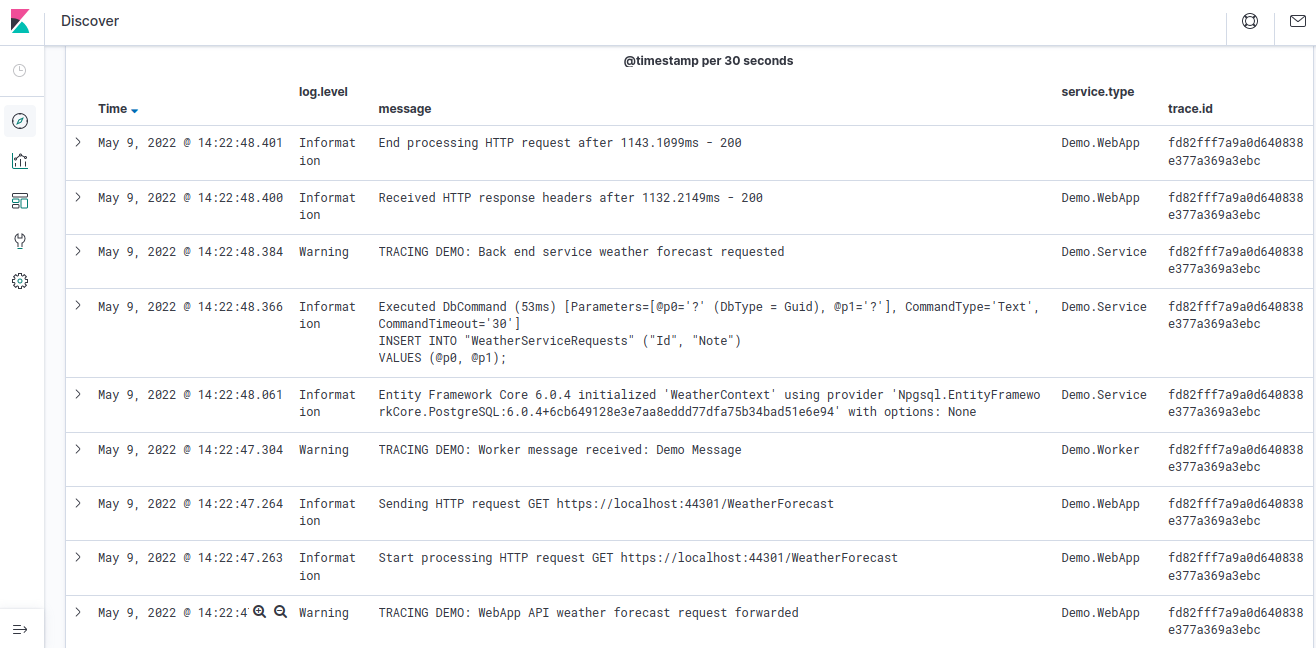
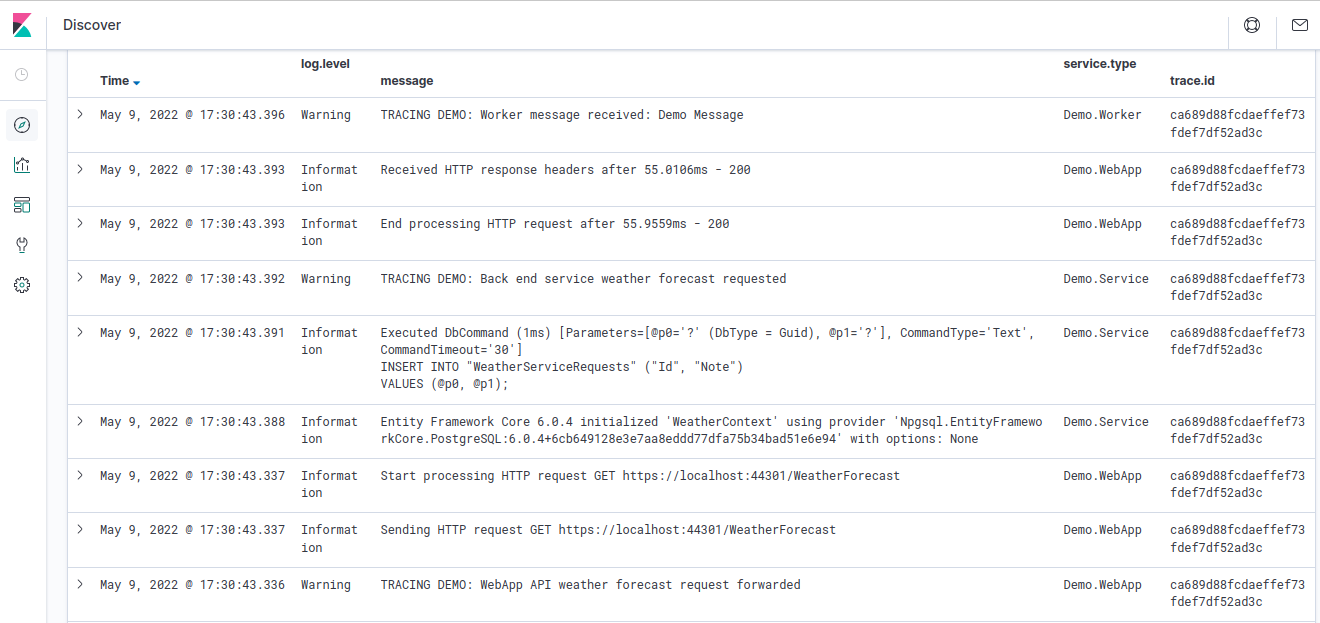
Do the message after the service, to demo async

Changed region(s): [[0.0, 0.0, 1.0, 1.0], [0.0, 0.366, 0.0312, 0.3965]]

diff --git a/src/c-complex/Demo.WebApp/Controllers/WeatherForecastController.cs b/src/c-complex/Demo.WebApp/Controllers/WeatherForecastController.cs
@@ -23,7 +23,8 @@ public class WeatherForecastController : ControllerBase
     public async Task<string> Get(System.Threading.CancellationToken cancellationToken)
     {
         _logger.LogWarning(4001, "TRACING DEMO: WebApp API weather forecast request forwarded");
-        await _publishEndpoint.Publish<Demo.WeatherMessage>(new { Note = "Demo Message" }, cancellationToken);
-        return await _httpClient.GetStringAsync("https://localhost:44301/WeatherForecast", cancellationToken);
+        var result = await _httpClient.GetStringAsync("https://localhost:44301/WeatherForecast", cancellationToken);
+        await _publishEndpoint.Publish<Demo.WeatherMessage>(new { Note = $"Demo Message" }, cancellationToken);
+        return result;
     }
 }

diff --git a/src/c-complex/Demo.Worker/WeatherMessageConsumer.cs b/src/c-complex/Demo.Worker/WeatherMessageConsumer.cs
@@ -11,9 +11,9 @@ public class WeatherMessageConsumer : IConsumer<WeatherMessage>
         _logger = logger;
     }
 
-    public Task Consume(ConsumeContext<WeatherMessage> context)
+    public async Task Consume(ConsumeContext<WeatherMessage> context)
     {
         _logger.LogWarning(4002, "TRACING DEMO: Worker message received: {Note}", context.Message.Note);
-        return Task.CompletedTask;
+        await Task.Delay(TimeSpan.FromMilliseconds(200), context.CancellationToken);
     }
 }

diff --git a/src/c-complex/ReadMe.md b/src/c-complex/ReadMe.md
@@ -154,15 +154,16 @@ In `WeatherForecastController.cs` inject the MassTransit publisher into the cons
   }
 ```
 
-Then change the request handler to async and publish a message with the interface type:
+Then change the request handler to async and publish a message with the interface type before returning the result:
 
 ```csharp
   [HttpGet]
   public async Task<string> Get(System.Threading.CancellationToken cancellationToken)
   {
     _logger.LogWarning(4001, "TRACING DEMO: WebApp API weather forecast request forwarded");
+    var result = await _httpClient.GetStringAsync("https://localhost:44301/WeatherForecast", cancellationToken);
     await _publishEndpoint.Publish<Demo.WeatherMessage>(new { Note = "Demo Message" }, cancellationToken);
-    return await _httpClient.GetStringAsync("https://localhost:44301/WeatherForecast", cancellationToken);
+    return result;
   }
 ```
 
@@ -203,7 +204,7 @@ public interface WeatherMessage
 }
 ```
 
-Add a simple `WeatherMessageConsumer.cs` class that will handle the incoming messages and log them:
+Add a simple `WeatherMessageConsumer.cs` class that will handle the incoming messages and log them. Add a delay to simulate doing work.
 
 ```csharp
 using MassTransit;
@@ -219,10 +220,10 @@ public class WeatherMessageConsumer : IConsumer<WeatherMessage>
         _logger = logger;
     }
 
-    public Task Consume(ConsumeContext<WeatherMessage> context)
+    public async Task Consume(ConsumeContext<WeatherMessage> context)
     {
         _logger.LogWarning(4002, "TRACING DEMO: Worker message received: {Note}", context.Message.Note);
-        return Task.CompletedTask;
+        await Task.Delay(TimeSpan.FromMilliseconds(200), context.CancellationToken);
     }
 }
 ```
@@ -600,7 +601,7 @@ All you need to do to enable it is add an exporter, such as Jaeger, to collect t
 
 ![](images/jaeger-traces-complex.png)
 
-The three components, and the spans within each component are visible in the timeline.
+The three components, and the spans within each component are visible in the timeline. You can see the asynchronus message processing happens after the primary span has completed.
 
 #### Jaeger - messaging architecture
 
